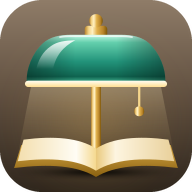
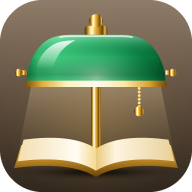
BF-19: Lampenglas und Messing nach dem klassischen Vorbild, links heller

Changed region(s): [[0.0625, 0.0625, 0.9375, 0.7812], [0.4688, 0.875, 0.5312, 0.9375]]

diff --git a/frontend/src/lib/schale/Logo.svelte b/frontend/src/lib/schale/Logo.svelte
@@ -1,9 +1,9 @@
 <!-- Das Zeichen der App, wie symbole/tab.svg -->
 <svg aria-hidden="true" viewBox="0 0 64 64">
-<defs><linearGradient id="zeichen-s" x1="0" y1="0" x2="0" y2="1"><stop offset="0" stop-color="#5fe0b7"/><stop offset="1" stop-color="#0a7f61"/></linearGradient><linearGradient id="zeichen-b" x1="0" y1="0" x2="1" y2="0"><stop offset="0" stop-color="#ffe9b4"/><stop offset=".5" stop-color="#fffdf6"/><stop offset="1" stop-color="#ffe9b4"/></linearGradient></defs>
+<defs><linearGradient id="zeichen-s" x1="0" y1="0" x2="1" y2="1"><stop offset="0" stop-color="#5fe3a0"/><stop offset=".5" stop-color="#1dae61"/><stop offset="1" stop-color="#077039"/></linearGradient><linearGradient id="zeichen-b" x1="0" y1="0" x2="1" y2="0"><stop offset="0" stop-color="#ffe9b4"/><stop offset=".5" stop-color="#fffdf6"/><stop offset="1" stop-color="#ffe9b4"/></linearGradient><linearGradient id="zeichen-m" x1="0" y1="0" x2="1" y2="0"><stop offset="0" stop-color="#b87a12"/><stop offset=".4" stop-color="#ffe694"/><stop offset="1" stop-color="#d1931f"/></linearGradient></defs>
 <g stroke="#2a1d10" stroke-width="3.4" stroke-linejoin="round">
-<path d="M29 29H35V50H29Z" fill="#f2b632"/>
-<path d="M27 4H37V11H27Z" fill="#f2b632"/>
+<path d="M29 29H35V50H29Z" fill="url(#zeichen-m)"/>
+<path d="M27 4H37V11H27Z" fill="url(#zeichen-m)"/>
 <path d="M32 46C25 41 14 40.500 4.500 42.500L2.500 56C14 54 25 55.500 32 60.500C39 55.500 50 54 61.500 56L59.500 42.500C50 40.500 39 41 32 46Z" fill="url(#zeichen-b)"/>
 <path d="M4 30C4 23 8 15 14.500 11.500C17 10 20 9.500 24 9.500H40C44 9.500 47 10 49.500 11.500C56 15 60 23 60 30Z" fill="url(#zeichen-s)"/>
 </g>
